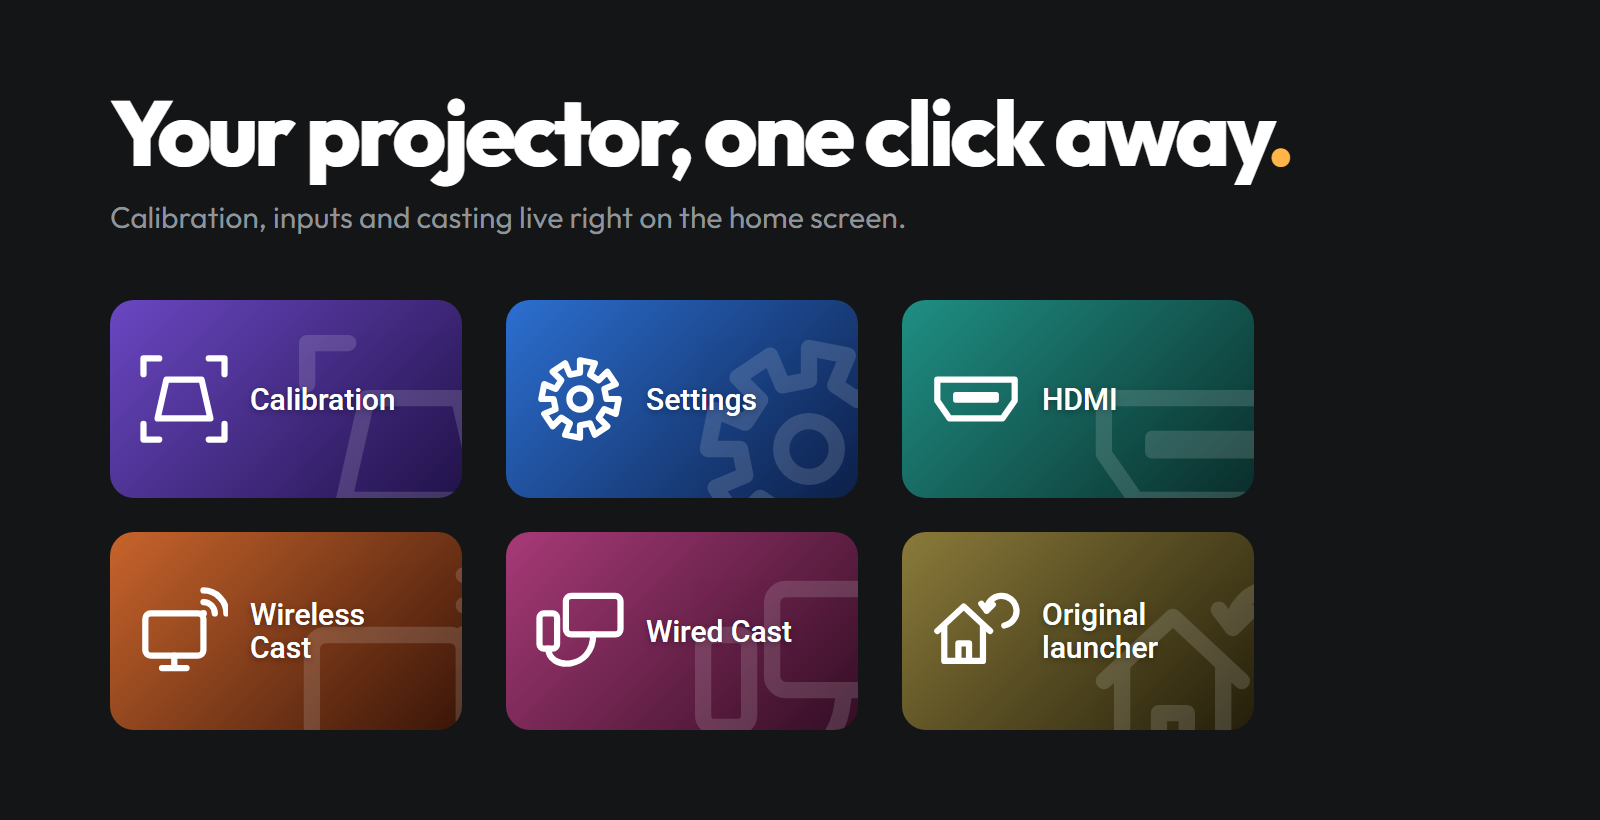
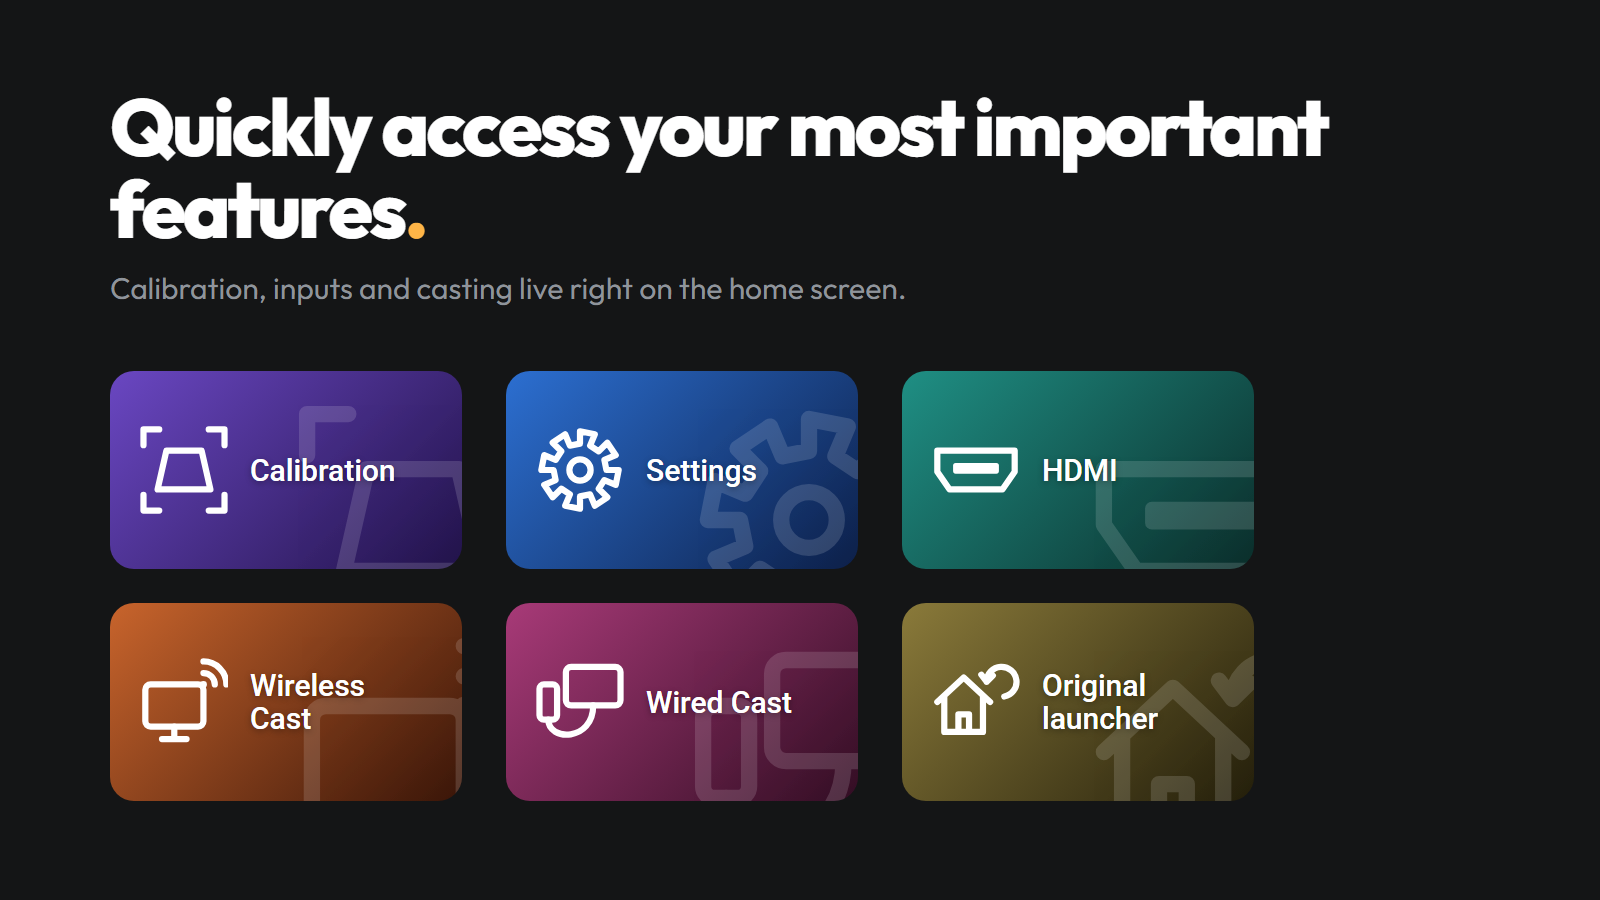
README: "Quickly access your most important features." headline
Claude-Session: https://claude.ai/code/session_01Lj4wVPVGi7bqhehWZvuH4R

diff --git a/docs/promo/tiles.html b/docs/promo/tiles.html
@@ -3,14 +3,14 @@
 <link rel="stylesheet" href="https://fonts.googleapis.com/css2?family=Outfit:wght@400;500;600;800&family=Roboto:wght@500&display=swap">
 <link rel="stylesheet" href="promo.css">
 <style>
-  body { width: 1600px; height: 820px; padding: 86px 110px; }
-  h2 { font: 800 92px/1 var(--display); letter-spacing: -0.04em; margin: 0; }
+  body { width: 1600px; height: 900px; padding: 86px 110px; }
+  h2 { font: 800 80px/1.02 var(--display); max-width: 1300px; letter-spacing: -0.04em; margin: 0; }
   h2 i { font-style: normal; color: var(--dot); }
   p { font: 400 30px/1.4 var(--display); color: var(--muted); margin: 18px 0 0; max-width: 1100px; }
   .grid { display: grid; grid-template-columns: repeat(3, 352px); gap: 34px 44px; margin-top: 62px; }
 </style></head>
 <body>
-  <h2>Your projector, one click away<i>.</i></h2>
+  <h2>Quickly access your most important features<i>.</i></h2>
   <p>Calibration, inputs and casting live right on the home screen.</p>
   <div class="grid" id="grid"></div>
   <script src="tiles.js"></script>

diff --git a/README.md b/README.md
@@ -14,7 +14,7 @@
 </p>
 
 <p align="center">
-  <img src="docs/images/tiles.png" alt="Your projector, one click away: Calibration, Settings, HDMI, Wireless Cast, Wired Cast and Original launcher tiles." width="100%">
+  <img src="docs/images/tiles.png" alt="Quickly access your most important features: Calibration, Settings, HDMI, Wireless Cast, Wired Cast and Original launcher tiles." width="100%">
 </p>
 
 ## Why you'll like it
